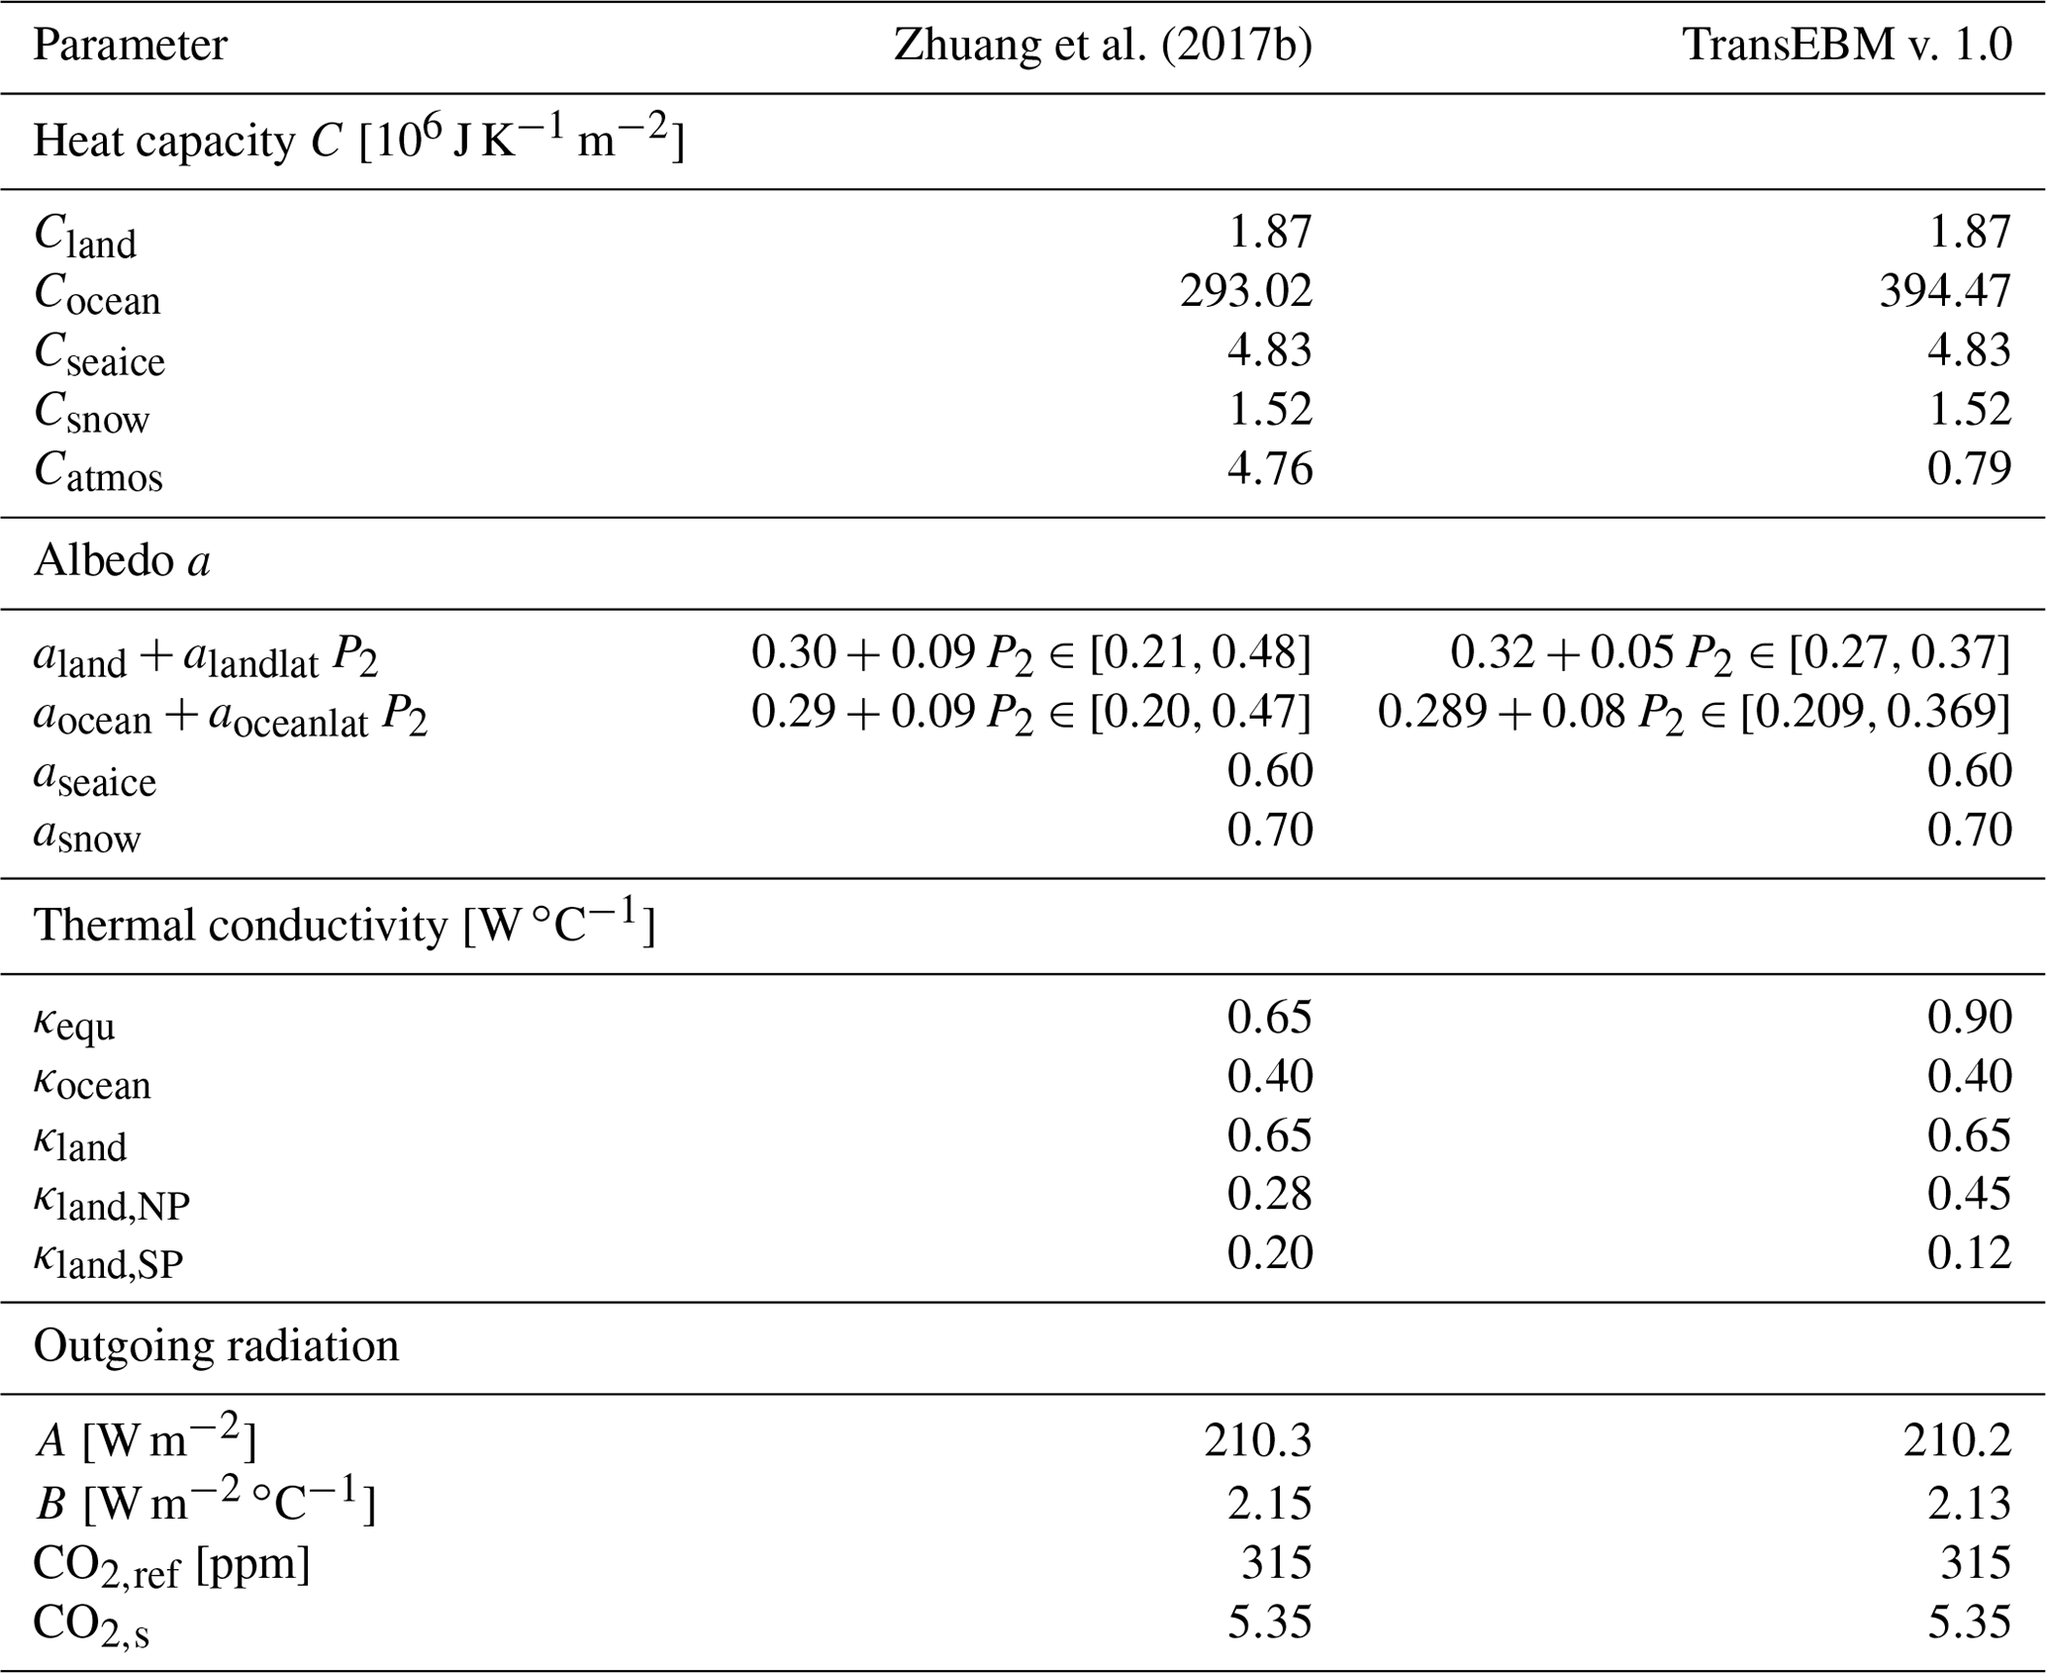
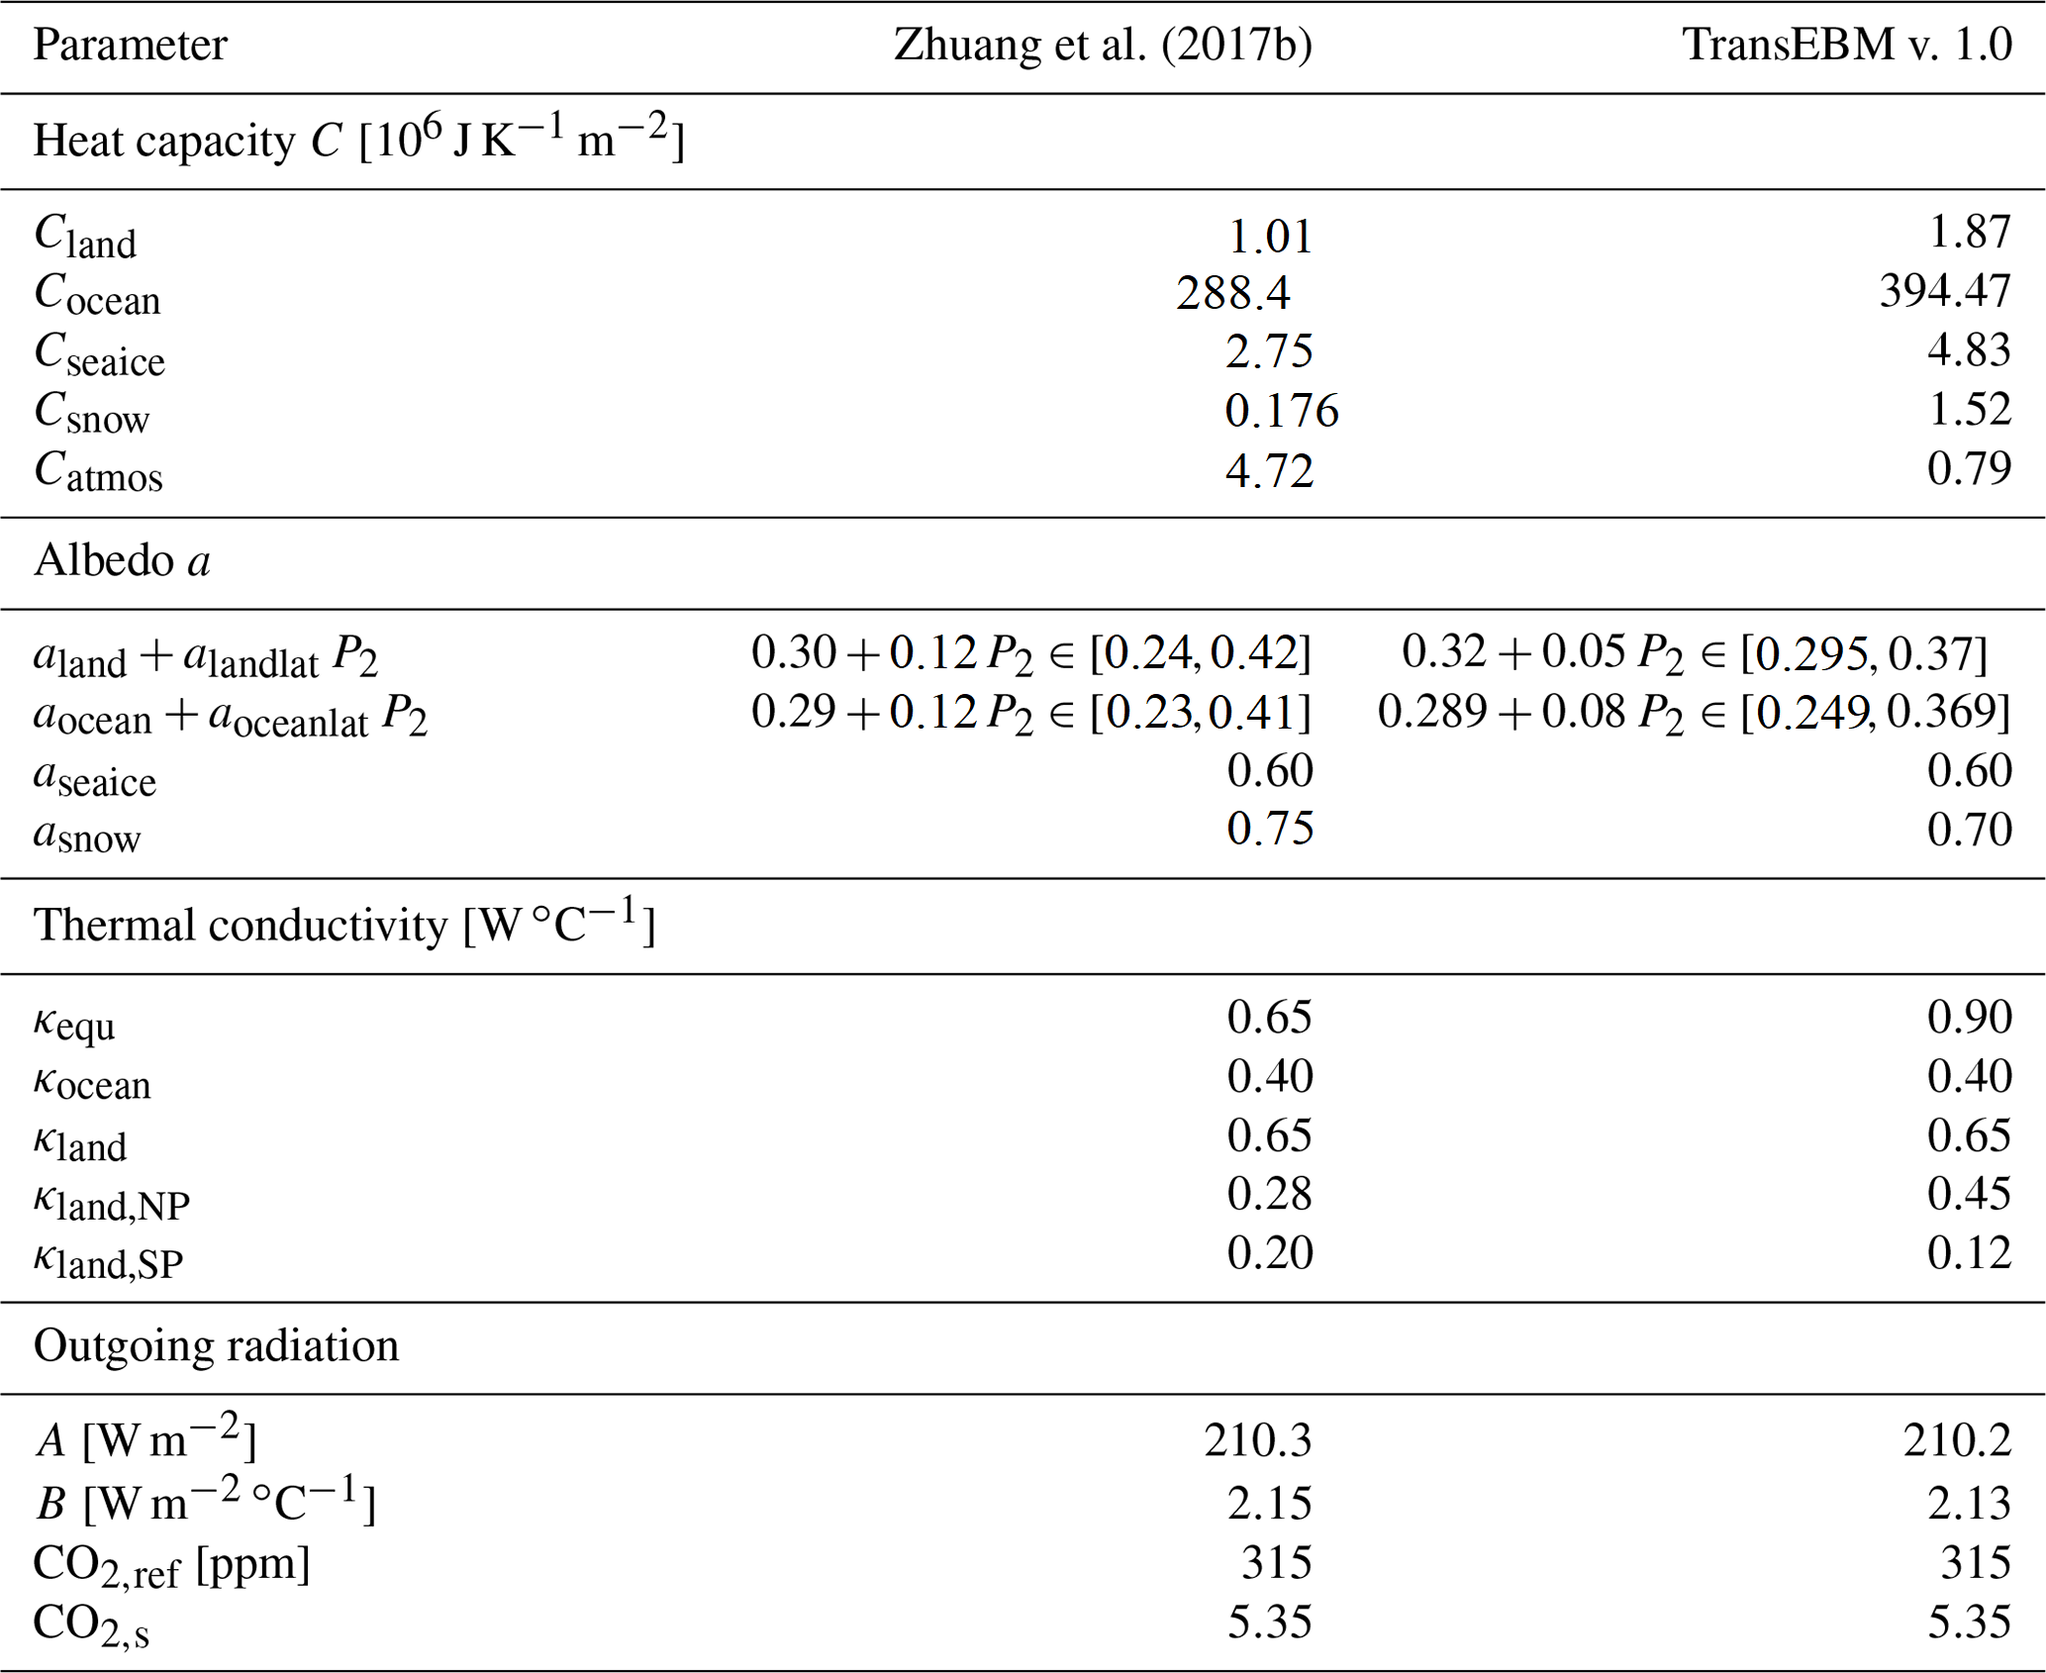
fixed table in MS6 description and updated codes

diff --git a/_assets/scripts/milestone6.py b/_assets/scripts/milestone6.py
@@ -1,0 +1,275 @@
+import os
+
+import imageio
+import numpy as np
+from matplotlib import pyplot as plt
+from scipy import sparse
+
+from milestone1 import read_geography
+from milestone2 import calc_albedo, calc_heat_capacity, calc_solar_forcing, read_true_longitude
+from milestone3 import calc_radiative_cooling_co2, calc_mean, plot_annual_temperature
+from milestone4 import plot_annual_temperature_north_south, calc_mean_north, calc_mean_south, plot_temperature
+from milestone5 import calc_diffusion_coefficients, calc_source_terms_ebm_2d, Mesh, compute_equilibrium_2d, \
+    calc_jacobian_ebm_2d
+
+
+def timestep_euler_backward_2d(jacobian, delta_t_):
+    m, n = jacobian.shape
+    eye = sparse.eye(m, n, format="csc")
+    jacobian = sparse.csc_matrix(jacobian)
+    solve = sparse.linalg.factorized(eye - delta_t_ * jacobian)
+
+    def timestep_function(temperature, t, delta_t,
+                          mesh, _, heat_capacity, solar_forcing, radiative_cooling):
+        # Similar to MS3, we have to solve the equation
+        # T_t = T_{t-1} + delta_t * f(T_t, t),
+        # where f(T, t) = R(T) + F(t).
+        # We use the fact that R is linear and thus can be written as R(T) = AT, where A is the Jacobian of R.
+        # Solving for T_t yields
+        # T_t = (I - delta_t * A)^{-1} * (T_{t-1} + delta_t * F(t)).
+        source_terms = calc_source_terms_ebm_2d(heat_capacity, solar_forcing[:, :, t - 1], radiative_cooling)
+
+        temperature[:, :, t] = np.reshape(solve((temperature[:, :, t - 1] + delta_t * source_terms).flatten()),
+                                          (mesh.n_latitude, mesh.n_longitude))
+
+    return timestep_function
+
+
+def co2_evolution(jacobian, mesh, diffusion_coeff, heat_capacity, solar_forcing):
+    # Read CO2 data
+    co2_data = np.genfromtxt("input/co2_nasa.dat")
+
+    # Assume that only data for full years is available
+    n_years = int(co2_data.shape[0] / 12)
+
+    average_co2 = np.array(
+        [np.sum(co2_data[12 * y:12 * (y + 1), 3]) / 12 for y in range(n_years)]
+    )
+
+    ntimesteps = solar_forcing.shape[2]
+
+    average_temperatures = np.zeros(n_years)
+    annual_temperatures = np.zeros(ntimesteps * n_years)
+
+    for y in range(n_years):
+        radiative_cooling = calc_radiative_cooling_co2(average_co2[y])
+        _, area_mean_temp = compute_equilibrium_2d(timestep_euler_backward_2d(jacobian, 1 / ntimesteps),
+                                                   mesh, diffusion_coeff, heat_capacity, solar_forcing,
+                                                   radiative_cooling, rel_error=1e-2)
+        annual_temperatures[ntimesteps * y:ntimesteps * (y + 1)] = area_mean_temp
+        average_temperatures[y] = np.sum(area_mean_temp) / ntimesteps
+
+    first_year = int(co2_data[0, 0])
+    last_year = int(co2_data[-1, 0])
+
+    return annual_temperatures, average_temperatures, first_year, last_year
+
+
+def plot_co2_evolution(jacobian, mesh, diffusion_coeff, heat_capacity, solar_forcing):
+    fig, ax = plt.subplots()
+
+    annual_temperatures, average_temperatures, first_year, last_year = co2_evolution(jacobian, mesh, diffusion_coeff,
+                                                                                     heat_capacity, solar_forcing)
+    n_timesteps = len(annual_temperatures)
+
+    average_temperatures_per_month = np.array(
+        [average_temperatures[int(t / 48)] for t in range(n_timesteps)]
+    )
+
+    plt.plot(average_temperatures_per_month, label="average temperature")
+    plt.plot(annual_temperatures, label="annual temperature")
+
+    plt.xlim((0, n_timesteps - 1))
+    labels = np.arange(first_year, last_year, 10)
+    plt.xticks(np.arange(0, n_timesteps - 1, 480), labels)
+    ax.set_ylabel("surface temperature [°C]")
+    plt.grid()
+    plt.title("Annual temperature with CO2 data from NASA")
+    plt.legend(loc="upper right")
+
+    plt.tight_layout()
+    plt.show()
+
+
+def calc_albedo_ziegler(geo_dat):
+    def legendre(latitude):
+        return 0.5 * (3 * np.sin(latitude) ** 2 - 1)
+
+    def albedo(surface_type, latitude):
+        if surface_type == 1:
+            return 0.32 + 0.05 * legendre(latitude)
+        elif surface_type == 2:
+            return 0.6
+        elif surface_type == 3:
+            return 0.7
+        elif surface_type == 5:
+            return 0.289 + 0.08 * legendre(latitude)
+        else:
+            raise ValueError(f"Unknown surface type {surface_type}.")
+
+    nlatitude, nlongitude = geo_dat.shape
+    y_lat = np.linspace(np.pi / 2, -np.pi / 2, nlatitude)
+
+    # Map surface type to albedo.
+    return np.array([[albedo(geo_dat[i, j], y_lat[i])
+                      for j in range(nlongitude)]
+                     for i in range(nlatitude)])
+
+
+def calc_heat_capacity_ziegler(geo_dat):
+    sec_per_yr = 3.15576e7  # seconds per year
+
+    c_atmos = 0.79e6
+    c_ocean = 394.47e6
+    c_seaice = 4.83e6
+    c_land = 1.87e6
+    c_snow = 1.52e6
+
+    def heat_capacity(surface_type):
+        if surface_type == 1:
+            capacity_surface = c_land
+        elif surface_type == 2:
+            capacity_surface = c_seaice
+        elif surface_type == 3:
+            capacity_surface = c_snow
+        elif surface_type == 5:
+            capacity_surface = c_ocean
+        else:
+            raise ValueError(f"Unknown surface type {surface_type}.")
+
+        return (capacity_surface + c_atmos) / sec_per_yr
+
+    # Map surface type to heat capacity.
+    nlatitude, nlongitude = geo_dat.shape
+    return np.array([[heat_capacity(geo_dat[i, j])
+                      for j in range(nlongitude)]
+                     for i in range(nlatitude)])
+
+
+def calc_diffusion_coefficients_ziegler(geo_dat):
+    nlatitude, nlongitude = geo_dat.shape
+
+    coeff_ocean_poles = 0.4
+    coeff_ocean_equator = 0.9
+    coeff_equator = 0.9
+    coeff_north_pole = 0.45
+    coeff_south_pole = 0.12
+
+    def diffusion_coefficient(j, i):
+        # Compute the j value of the equator
+        j_equator = int(nlatitude / 2)
+
+        theta = np.pi * j / np.real(nlatitude - 1)
+        colat = np.sin(theta) ** 5
+
+        geo = geo_dat[j, i]
+        if geo == 5:  # ocean
+            return coeff_ocean_poles + (coeff_ocean_equator - coeff_ocean_poles) * colat
+        else:  # land, sea ice, etc
+            if j <= j_equator:  # northern hemisphere
+                # on the equator colat=1 -> coefficients for norhern/southern hemisphere cancels out
+                return coeff_north_pole + (coeff_equator - coeff_north_pole) * colat
+            else:  # southern hemisphere
+                return coeff_south_pole + (coeff_equator - coeff_south_pole) * colat
+
+    return np.array(
+        [[diffusion_coefficient(j, i) for i in range(nlongitude)] for j in range(nlatitude)]
+    )
+
+
+def simulation_ziegler(geo_dat, mesh, true_longitude):
+    albedo = calc_albedo_ziegler(geo_dat)
+    heat_capacity = calc_heat_capacity_ziegler(geo_dat)
+
+    solar_forcing = calc_solar_forcing(albedo, true_longitude)
+    ntimesteps = len(true_longitude)
+    diffusion_coeff = calc_diffusion_coefficients_ziegler(geo_dat)
+
+    co2_ppm = 315.0
+    radiative_cooling = calc_radiative_cooling_co2(co2_ppm, radiative_cooling_base=210.2)
+
+    jacobian = calc_jacobian_ebm_2d(mesh, diffusion_coeff, heat_capacity, radiative_cooling_feedback=2.13)
+
+    temperature, area_mean_temp = compute_equilibrium_2d(timestep_euler_backward_2d(jacobian, 1 / ntimesteps),
+                                                         mesh, diffusion_coeff, heat_capacity, solar_forcing,
+                                                         radiative_cooling)
+
+    # Copied from MS4
+    # Area mean of pointwise annual temperature
+    annual_mean_temperature_north = [calc_mean_north(temperature[:, :, t], mesh_.area) for t in range(ntimesteps)]
+    annual_mean_temperature_south = [calc_mean_south(temperature[:, :, t], mesh_.area) for t in range(ntimesteps)]
+    annual_mean_temperature_total = [calc_mean(temperature[:, :, t], mesh_.area) for t in range(ntimesteps)]
+
+    average_temperature_north = np.sum(annual_mean_temperature_north) / ntimesteps
+    average_temperature_south = np.sum(annual_mean_temperature_south) / ntimesteps
+    average_temperature_total = np.sum(annual_mean_temperature_total) / ntimesteps
+
+    plot_annual_temperature_north_south(annual_mean_temperature_north, annual_mean_temperature_south,
+                                        annual_mean_temperature_total, average_temperature_north,
+                                        average_temperature_south, average_temperature_total)
+
+
+# Run code
+if __name__ == '__main__':
+    geo_dat_ = read_geography("input/The_World128x65.dat")
+    mesh_ = Mesh(geo_dat_)
+
+    albedo_ = calc_albedo(geo_dat_)
+    heat_capacity_ = calc_heat_capacity(geo_dat_)
+
+    # Compute solar forcing
+    true_longitude_ = read_true_longitude("input/True_Longitude.dat")
+    solar_forcing_ = calc_solar_forcing(albedo_, true_longitude_)
+    ntimesteps_ = len(true_longitude_)
+
+    diffusion_coeff_ = calc_diffusion_coefficients(geo_dat_)
+
+    co2_ppm_ = 315.0
+    radiative_cooling_ = calc_radiative_cooling_co2(co2_ppm_)
+
+    jacobian_ = calc_jacobian_ebm_2d(mesh_, diffusion_coeff_, heat_capacity_)
+
+    temperature_, area_mean_temp_ = compute_equilibrium_2d(timestep_euler_backward_2d(jacobian_, 1 / ntimesteps_),
+                                                           mesh_, diffusion_coeff_, heat_capacity_, solar_forcing_,
+                                                           radiative_cooling_)
+
+    # Copied from MS4
+    # Area mean of pointwise annual temperature
+    annual_mean_temperature_north_ = [calc_mean_north(temperature_[:, :, t], mesh_.area) for t in range(ntimesteps_)]
+    annual_mean_temperature_south_ = [calc_mean_south(temperature_[:, :, t], mesh_.area) for t in range(ntimesteps_)]
+    annual_mean_temperature_total_ = [calc_mean(temperature_[:, :, t], mesh_.area) for t in range(ntimesteps_)]
+
+    average_temperature_north_ = np.sum(annual_mean_temperature_north_) / ntimesteps_
+    average_temperature_south_ = np.sum(annual_mean_temperature_south_) / ntimesteps_
+    average_temperature_total_ = np.sum(annual_mean_temperature_total_) / ntimesteps_
+
+    plot_annual_temperature_north_south(annual_mean_temperature_north_, annual_mean_temperature_south_,
+                                        annual_mean_temperature_total_, average_temperature_north_,
+                                        average_temperature_south_, average_temperature_total_)
+
+    # Compute temperature in Cologne.
+    # Cologne lies about halfway between these two grid points.
+    annual_temperature_cologne = (temperature_[14, 67, :] +
+                                  temperature_[14, 68, :]) / 2
+    average_temperature_cologne = np.sum(annual_temperature_cologne) / ntimesteps_
+
+    plot_annual_temperature(annual_temperature_cologne, average_temperature_cologne,
+                            f"Annual temperature_ with CO2 = {co2_ppm_} [ppm] in Cologne")
+
+    plot_co2_evolution(jacobian_, mesh_, diffusion_coeff_, heat_capacity_, solar_forcing_)
+
+    simulation_ziegler(geo_dat_, mesh_, true_longitude_)
+
+    # Plot temperature for each time step
+    filenames = []
+    for ts in range(48):
+        filename_ = plot_temperature(temperature_, geo_dat_, ts, show_plot=False)
+        filenames.append(filename_)
+
+    # Build GIF
+    frames = [imageio.v3.imread(filename_) for filename_ in filenames]
+    imageio.mimsave("annual_temperature.gif", frames)
+
+    # Remove files
+    for filename_ in set(filenames):
+        os.remove(filename_)

diff --git a/_assets/scripts/milestone5.py b/_assets/scripts/milestone5.py
@@ -131,10 +131,10 @@ def calc_diffusion_operator_inner(h, area, n_latitude, n_longitude, csc2, cot, d
     return result
 
 
-def calc_operator_ebm_2d(temperature, mesh, diffusion_coeff, heat_capacity):
+def calc_operator_ebm_2d(temperature, mesh, diffusion_coeff, heat_capacity, radiative_cooling_feedback=2.15):
     diffusion_op = calc_diffusion_operator(mesh, diffusion_coeff, temperature)
 
-    return (diffusion_op - 2.15 * temperature) / heat_capacity
+    return (diffusion_op - radiative_cooling_feedback * temperature) / heat_capacity
 
 
 def calc_source_terms_ebm_2d(heat_capacity, solar_forcing, radiative_cooling):
@@ -211,7 +211,7 @@ def plot_diffusion_coefficient(diffusion_coeff):
     plt.show()
 
 
-def calc_jacobian_ebm_2d(mesh, diffusion_coeff, heat_capacity):
+def calc_jacobian_ebm_2d(mesh, diffusion_coeff, heat_capacity, radiative_cooling_feedback=2.15):
     jacobian = np.zeros((mesh.ndof, mesh.ndof))
     test_temperature = np.zeros(diffusion_coeff.shape)
 
@@ -219,7 +219,8 @@ def calc_jacobian_ebm_2d(mesh, diffusion_coeff, heat_capacity):
     for j in range(mesh.n_latitude):
         for i in range(mesh.n_longitude):
             test_temperature[j, i] = 1.0
-            op = calc_operator_ebm_2d(test_temperature, mesh, diffusion_coeff, heat_capacity)
+            op = calc_operator_ebm_2d(test_temperature, mesh, diffusion_coeff, heat_capacity,
+                                      radiative_cooling_feedback=radiative_cooling_feedback)
 
             # Convert matrix to vector.
             # Note that this must be compatible with the loop order, so that `index` is correct.

diff --git a/milestone6/milestone6_project.md b/milestone6/milestone6_project.md
@@ -28,6 +28,8 @@ tags = ["linear systems", "linear solvers"]
 
 \fig{/assets/milestone6/new_parameter.png}
 
+Note that we have corrected the values for the first column to match the parameters used in this lecture and corrected the intervals for the albedo.
+
 Compare your results with the temperatures calculated in 1.
 
 5. Compute the equilibrium temperature from 1980 to present with the NASA $CO_2$ data as in task 3 but with the new parameter. Compare your results.
